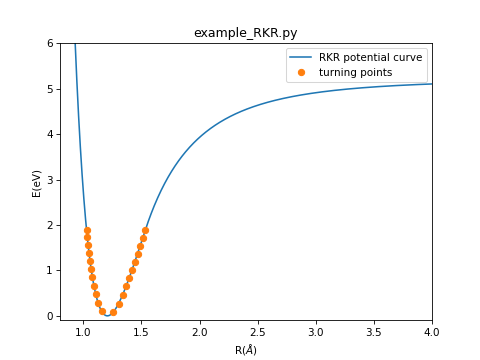
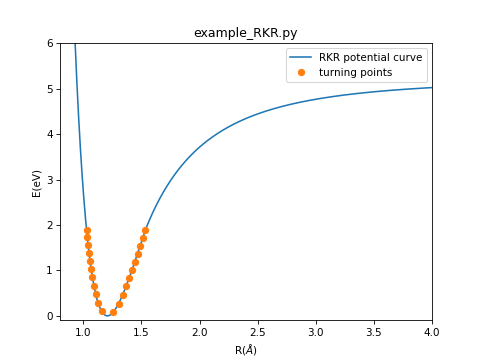
lsq-fitting to determine extension analytical functions, from the RKR turning points

Changed region(s): [[0.3438, 0.2139, 0.9062, 0.5194], [0.3125, 0.5194, 0.3438, 0.6111]]

diff --git a/cse/tools/RKR.py b/cse/tools/RKR.py
@@ -9,6 +9,7 @@
 import numpy as np
 import scipy.constants as const
 from scipy.interpolate import splrep, splev
+from scipy.optimize import curve_fit
 
 def rkr(mu, vv, Gv, Bv, De, limb='L', dv=0.1,
         Rgrid=np.arange(0.005, 10.004, 0.005), verbose=True):
@@ -20,7 +21,7 @@ def rkr(mu, vv, Gv, Bv, De, limb='L', dv=0.1,
         readuced mass in amu
     vv : numpy 1d array of floats
         vibrational quantum number for Gv, Bv
-    Gv : numpy 1d array of floats
+    Gv : (= Te+Gv) numpy 1d array of floats
         vibrational constants at vv in cm-1
     Bv : numpy 1d array of floats
         rotational constants at vv in cm-1
@@ -93,28 +94,29 @@ def turning_points(mu, vv, Gv, Bv, dv=0.1, verbose=True):
 
     # vibrational QN at which to evaluate turning points
     V = np.arange(-1/2, vv[-1]+dv/2, dv)
-    # offset the point at v=-0.5, the bottom of the well
+    # offset the point at v=-1/2, the bottom of the well
     V[0] = -1/2 + 0.0001
-    Rmin = []
-    Rmax = []
-    E = []
-    # compute turning points using RKR method
-    if verbose:
-        print(u"RKR:  v    Rmin(A)   Rmax(A)     E(cm-1)")
-        vi = 0
 
-    for vib in V:
-        E.append(G(vib, gsp))    # energy of vibrational level
-        ff = fg_integral(vib, gsp, bsp, lambda x, y: 1)
-        gg = fg_integral(vib, gsp, bsp, B)
-        fg = np.sqrt(ff/gg + ff**2)
-        Rmin.append((fg - ff)*DD)  # turning points
-        Rmax.append((fg + ff)*DD)
-        if verbose:
-            if np.isclose(vib, vi):
-                print(f'     {vi:2d}   {Rmin[-1]:7.4f}   {Rmax[-1]:7.4f}'
-                      f'    {np.float(E[-1]):9.2f}')
-                vi += 1
+    # compute turning points using RKR method
+    E = G(V, gsp)
+    ff = fg_integral(V, gsp, bsp, lambda x, y: 1)
+    gg = fg_integral(V, gsp, bsp, B)
+    fg = np.sqrt(ff/gg + ff**2)
+
+    Rmin = (fg - ff)*DD  # turning points
+    Rmax = (fg + ff)*DD
+
+    if verbose:
+        vint = np.mod(V, 1) > 0.99
+        
+        print(u"RKR:  v    Rmin(A)   Rmax(A)     E(cm-1)")
+        for vib, rm, rx, e in zip(V[vint], Rmin[vint], Rmax[vint], E[vint]):
+            if vib >= 0: 
+                print(f'    {int(vib):2d}   {rm:7.4f}   {rx:7.4f}'
+                      f'{np.float(e):9.2f}')
+            else:
+                print(f'   {"-1/2":s}  {rm:7.4f}   {rx:7.4f}'
+                      f'{np.float(e):9.2f}')
 
     return Rmin, Rmax, E
 
@@ -135,56 +137,88 @@ def formPEC(R, Rmin, Rmax, E, De, limb, verbose=True):
     # Interpolate RKR curve to this grid
     PEC = splev(R, psp, der=0)
 
+    bound = np.logical_and(R > RTP[0], R < RTP[-1])
+    Te = PEC[bound].min()
+
     # extrapolate using analytical function
-    inner_limb_Morse(R, PEC, RTP, PTP, Re, De, verbose=verbose)
+    inner_limb_Morse(R, PEC, RTP, PTP, Re, De, Te, verbose=verbose)
     if limb == 'L':
-        outer_limb_LeRoy(R, PEC, RTP, PTP, De, verbose=verbose)
+        outer_limb_LeRoy(R, PEC, RTP, PTP, De, Te, verbose=verbose)
     else:
-        outer_limb_Morse(R, PEC, RTP, PTP, De, Re, verbose=verbose)
+        outer_limb_Morse(R, PEC, RTP, PTP, De, Re, Te, verbose=verbose)
 
     PTP /= evcm
     PEC /= evcm  # convert to eV
 
     return PEC, RTP, PTP
 
+def Morse(x, beta, De, Re, Te):
+    return De*(1 - np.exp(-beta*(x-Re)))**2 + Te
 
 # analytical functions
-def inner_limb_Morse(R, P, RTP, PTP, Re, De, verbose=True):
-    ln0 = np.log(1 + np.sqrt(PTP[0]/De))
+def inner_limb_Morse(R, P, RTP, PTP, Re, De, Te, verbose=True):
+    # V(r) = De[1 - exp(-β(R-Re))]² + Te
+
+    # evaluate β based on inner-most turning point
+    ln0 = np.log(1 + np.sqrt((PTP[0] - Te)/De))
     beta = ln0/(Re - RTP[0])
 
+    # fit Morse to inner turning points
+    inner = len(PTP) // 2
+    popt, pcov = curve_fit(Morse, RTP[:inner], PTP[:inner], 
+                           p0=[beta, De, Re, Te])
+    err = np.sqrt(np.diag(pcov))
+
     subR = R < RTP[0]
-    P[subR] = De*( 1 - np.exp(-beta*(R[subR]-Re)) )**2
+    P[subR] = Morse(R[subR], *popt)
 
     if verbose:
-        print('RKR: Inner limb  De[1-exp(beta*(Re-R))]^2')
-        print(f'RKR:  {R[0]:g}-{RTP[0]:g}A   {De:g}(De)  {Re:g}(Re)  '
-              f'{beta:g}(beta)')
+        print('\nRKR: Inner limb  De[1-exp(β(Re-R))]² + Te')
+        for par, val, er in zip(['β', 'De', 'Re', 'Te'], popt, err):
+            print(f'RKR:  {par:3s}  {val:12.2f}±{er:.2f}')
 
 
-def outer_limb_Morse(R, P, RTP, PTP, De, Re, verbose=True):
-    l1 = np.log(1 - np.sqrt(PTP[-1]/De))
-    l2 = np.log(1 - np.sqrt(PTP[-2]/De))
-    Re = (l2*RTP[-1]-l1*RTP[-2])/(l2-l1)
+def outer_limb_Morse(R, P, RTP, PTP, De, Re, Te, verbose=True):
+    # V(r) = De[1 - exp(-β(R-Re))]² + Te
+    l1 = np.log(1 - np.sqrt((PTP[-1] - Te)/De))
+    l2 = np.log(1 - np.sqrt((PTP[-2] - Te)/De))
+    Re = (l2*RTP[-1] - l1*RTP[-2])/(l2 - l1)
     beta = l1/(Re - RTP[-1])
 
-    subR = R > RTP[-1]
-    P[subR] = De*( 1 - np.exp(-beta*(R[subR]-Re)) )**2
-
-    if verbose:
-        print('RKR: Outer limb  De[1-exp(beta*(Re-R))]^2')
-        print(f'RKR:   {RTP[-1]:g}-{R[-1]:g}A   {De:g}(De)  {Re:g}(Re)  '
-              f'{beta:g}(beta)')
-
-
-def outer_limb_LeRoy(R, P, RTP, PTP, De, verbose=True):
-    n = np.log((De - PTP[-1])/(De - PTP[-2]))/np.log(RTP[-2]/RTP[-1])
-    Cn = (De - PTP[-1])*RTP[-1]**n
+    # fit Morse to outer turning points
+    outer = len(PTP) // 2
+    popt, pcov = curve_fit(Morse, RTP[outer:], PTP[outer:], 
+                           p0=[beta, De, Re, Te])
+    err = np.sqrt(np.diag(pcov))
 
     subR = R > RTP[-1]
-    P[subR] = De - Cn/R[subR]**n
+    P[subR] = Morse(R[subR], *popt) 
 
     if verbose:
-        print('RKR: Outer limb  De - Cn/R^n')
-        print(f'RKR:  {RTP[-1]:g}-{R[-1]:g}A   {De:g}(De)  {n:g}(n)  '
-              f'{Cn:g}(Cn)')
+        print('\nRKR: Outer limb  De[1-exp(β(Re-R))]² + Te')
+        for par, val, er in zip(['β', 'De', 'Re', 'Te'], popt, err):
+            print(f'RKR:  {par:3s}  {val:12.2f}±{er:.2f}')
+
+
+def outer_limb_LeRoy(R, P, RTP, PTP, De, Te, verbose=True):
+    def LeRoy(x, De, Cn, n, Te):
+        return De - Cn/x**n + Te
+
+    n = int(np.log((Te + De - PTP[-1])/(Te + De - PTP[-2]))\
+        /np.log(RTP[-2]/RTP[-1]))
+    Cn = (Te + De - PTP[-1])*RTP[-1]**n
+
+    # fit long-range potential curve to outer turning points
+    outer = len(PTP)*2 // 3   # choose last 1/3 of points
+    popt, pcov = curve_fit(lambda x, De, Cn: LeRoy(x, De, Cn, n, Te), 
+                           RTP[outer:], PTP[outer:], p0=[De, Cn])
+    err = np.sqrt(np.diag(pcov))
+
+    subR = R > RTP[-1]
+    P[subR] = LeRoy(R[subR], De, Cn, n, Te)
+
+    if verbose:
+        print('\nRKR: Outer limb  De - Cn/R^n')
+        for par, val, er in zip(['De', 'Cn'], popt, err):
+            print(f'RKR:  {par:3s}  {val:12.2f}±{er:.2f}')
+        print(f'RKR: n = {n}, Te = {Te:8.2f}')

diff --git a/cse/cse_setup.py b/cse/cse_setup.py
@@ -111,7 +111,7 @@ def potential_energy_curves(pecfs=None, R=None, dirpath='./'):
     """
 
     if pecfs == None:
-        pecfns =  input ("CSE: potential energy curves [X3S-1.dat]: ")
+        pecfns =  input ("CSE: potential energy curve(s) [X3S-1.dat]: ")
         pecfs = pecfns.replace(',','').split() if len(pecfns) > 1 else ["X3S-1.dat"]
 
     n = np.shape(pecfs)[0]
@@ -202,7 +202,8 @@ def coupling_function(R, VT, μ, pecfs, coup=None):
     coupling_function = np.ones(np.size(R), dtype='float')
     coupling_function[R>5] = np.exp(-(R[R>5]-5)**2)
 
-    # cm-1 couplings between PECs   (at the moment all homogeneous)
+    # cm-1 couplings between PECs
+    # See Table 3.2 (page 97) Lefebrvre-Brion and Fieldi: Spectra and Dynam
     cnt = 0
     for j in range(n):
         for k in range(j+1,n):
@@ -215,7 +216,7 @@ def coupling_function(R, VT, μ, pecfs, coup=None):
                 spl = splrep(Rcouple, couple)
                 couple = splev(R, spl, ext=3) 
                 cnt += 1
-            elif isinstance(coup[cnt], str):  # dipolemoment file
+            elif isinstance(coup[cnt], str):  # R-dependent file
                 Rcouple, couple = np.loadtxt(coup[cnt], unpack=True)
                 spl = splrep(Rcouple, couple)
                 couple = splev(R, spl, ext=3) 

diff --git a/cse/cse.py b/cse/cse.py
@@ -75,7 +75,7 @@ class Cse():
 
 
     def __init__(self, μ=None, R=None, VT=None, coup=None, eigenbound=None,
-                 rot=0, en=0, dirpath='./'):
+                 en=None, rot=0, dirpath='./'):
 
         self._evcm = 8065.541
         self.set_μ(μ=μ)
@@ -103,7 +103,7 @@ class Cse():
             self.R[zeros] = 1.0e-16
 
         self.results = OrderedDict()  # store results for single bound channel
-        if en > 0:
+        if en is not None:
             self.solve(en, self.rot)
 
     def set_μ(self, μ):
@@ -151,7 +151,7 @@ class Cse():
                 # keep results
                 self.results[self.vib] = (self.cm, self.Bv, self.Dv, self.rot)
             else:
-                self.vib = -1
+                self.vib = None 
 
     def node_count(self):
         V = self.VT[0][0][:np.shape(self.wavefunction)[0]]

diff --git a/examples/example_RKR.py b/examples/example_RKR.py
@@ -27,9 +27,11 @@ try:
 except FileNotFoundError:
     print(f"RKR: file '{fn:s}' not found")
 
-# reduced mass - see Huber+Herzberg - default is O2
-μ = input("RKR: Molecule reduced mass [7.99745751]: ")
-μ = 7.99745751 if μ == '' else float(μ)
+# reduced mass in atomic mass units- see Huber+Herzberg - default is O2 = 7.9975
+mol = input("RKR: diatomic molecule [O2]: ")
+if mol == '':
+    mol = 'O2'
+μ = cse.cse_setup.reduced_mass(mol)[0]/const.m_u
 
 # De - dissociation energy
 De = input("RKR: De [42021.47 cm-1]: ")

diff --git a/cse/tools/LeRoy.py b/cse/tools/LeRoy.py
@@ -10,7 +10,7 @@ class Morse():
 
             JQSRT 186, 210-220 (2017) doi:10.1016/j.jqsrt.2016.03.036
 
-            For ordinary Morse set beta to a single value.
+            For ordinary Morse set beta array to a single value.
         """
 
         self.R = R

diff --git a/examples/example_O2_continuity.py b/examples/example_O2_continuity.py
@@ -5,7 +5,7 @@ import time
 
 import cse
 from scipy.interpolate import InterpolatedUnivariateSpline
-from scipy.integrate.quadrature import simps
+from scipy.integrate import simps
 
 ##########################################################################
 #
